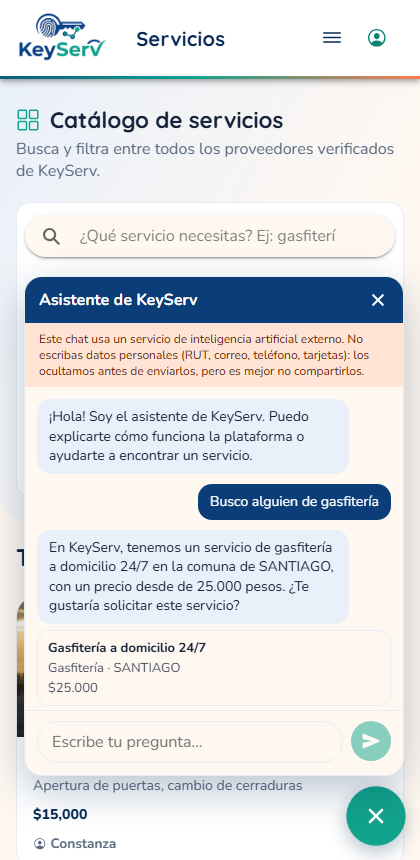
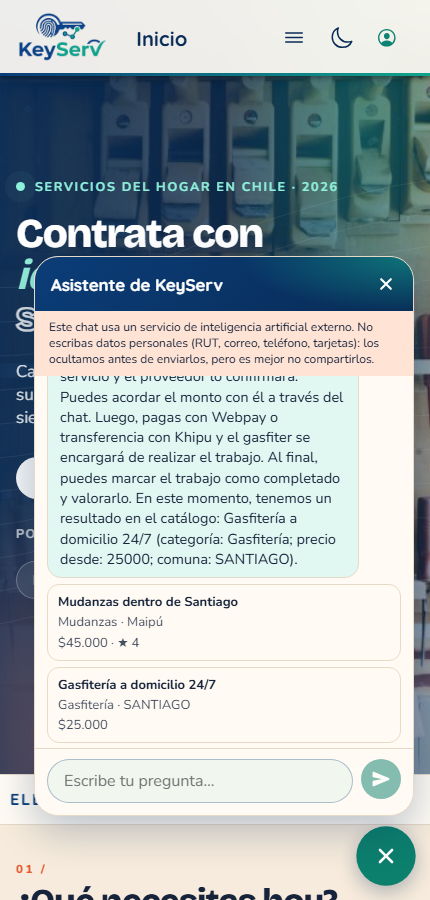
docs: capturas nuevas del demo en vivo en el README (inicio con hero de oficios, catálogo, asistente)

diff --git a/README.es.md b/README.es.md
@@ -12,7 +12,7 @@ Un marketplace chileno de servicios del hogar con verificación de identidad (Fa
 
 ![Inicio de KeyServ](assets/imagenes/inicio-keyserv.png)
 
-<img src="assets/imagenes/asistente-keyserv.png" alt="Asistente con IA de KeyServ" width="300">  <img src="assets/imagenes/catalogo-keyserv.jpg" alt="Catálogo" width="520">
+<img src="assets/imagenes/asistente-keyserv.png" alt="Asistente con IA de KeyServ" width="300">  <img src="assets/imagenes/catalogo-keyserv.png" alt="Catálogo" width="520">
 
 ## Demo en vivo
 

diff --git a/README.md b/README.md
@@ -12,7 +12,7 @@ A Chilean home-services marketplace with biometric identity verification (native
 
 ![KeyServ home page](assets/imagenes/inicio-keyserv.png)
 
-<img src="assets/imagenes/asistente-keyserv.png" alt="KeyServ AI assistant" width="300">  <img src="assets/imagenes/catalogo-keyserv.jpg" alt="Catálogo" width="520">
+<img src="assets/imagenes/asistente-keyserv.png" alt="KeyServ AI assistant" width="300">  <img src="assets/imagenes/catalogo-keyserv.png" alt="Catálogo" width="520">
 
 ## Live demo
 
